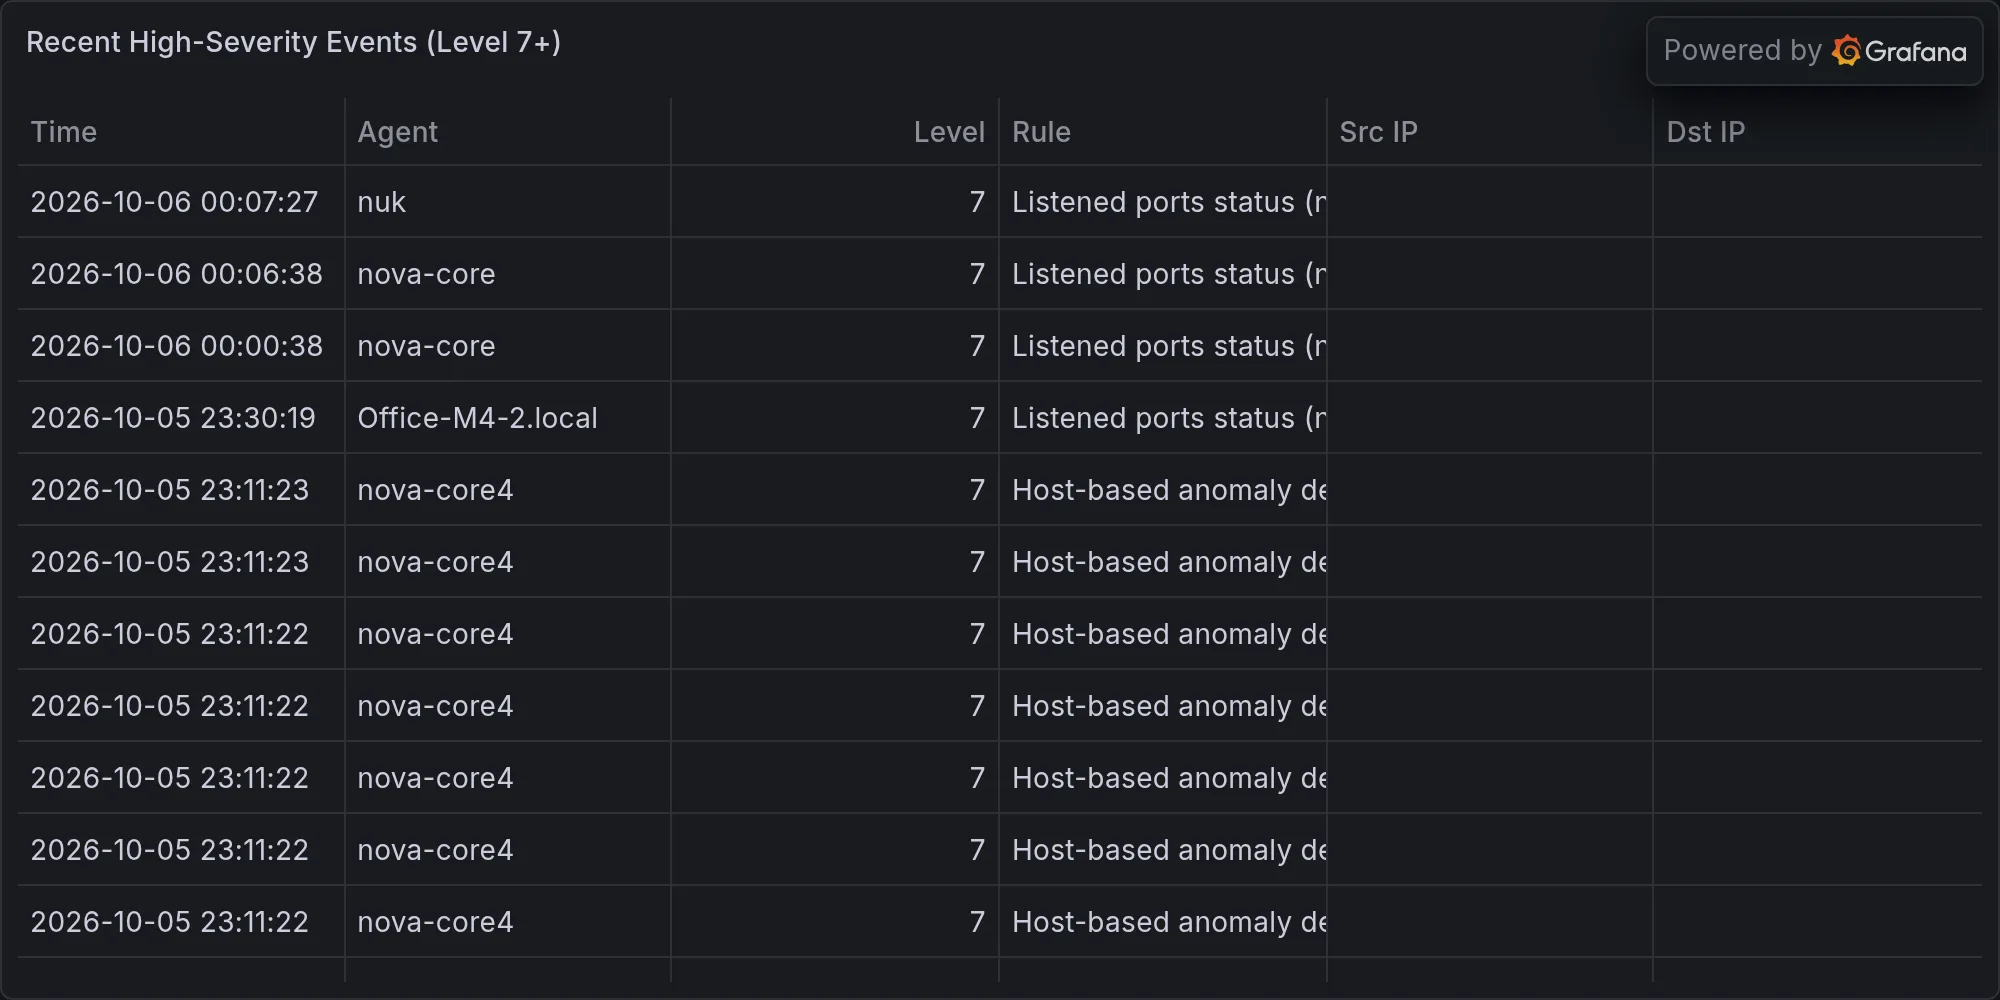
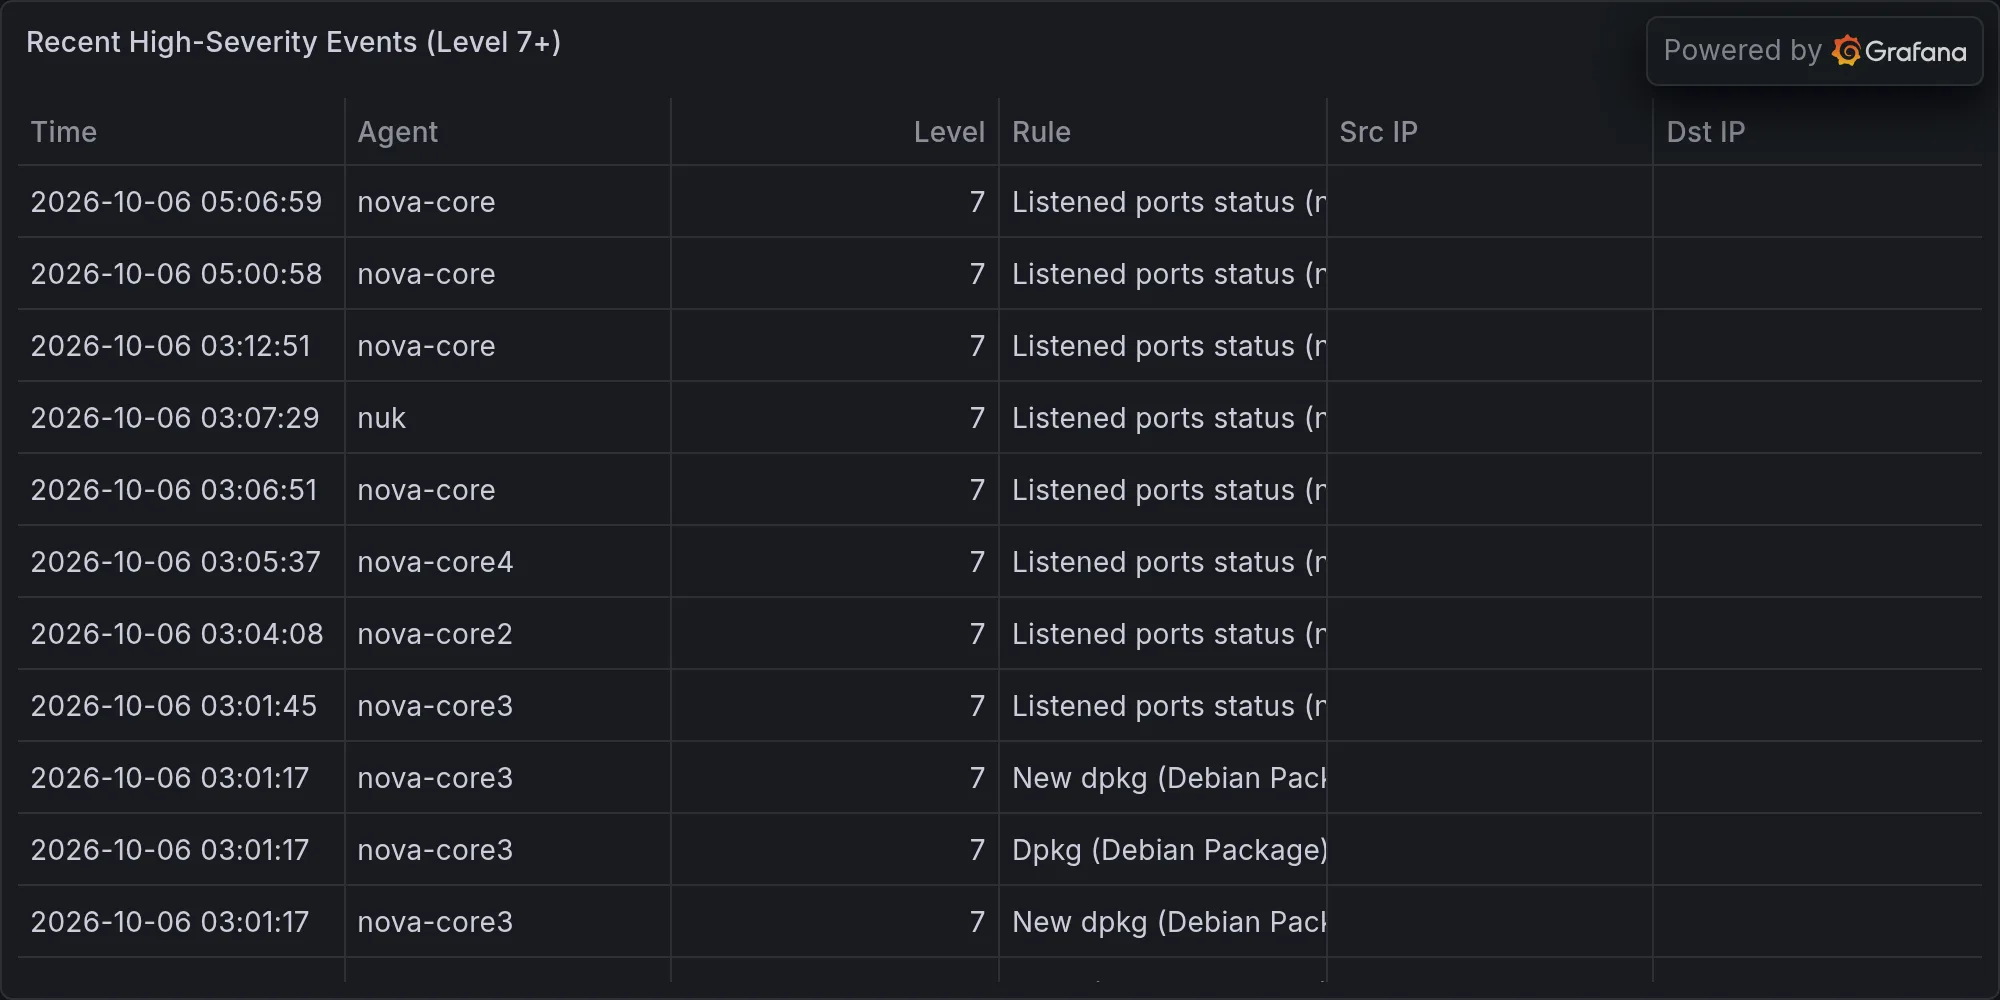
security: 2026-10-06 — **INBOUND ATTACK BLOCKED ON UNIFI GATEWAY — UBIQUI

diff --git a/content/operations/2026-10-06-inbound-attack-blocked-on-unifi-gateway-ubiquiti-zero-day-ca.md b/content/operations/2026-10-06-inbound-attack-blocked-on-unifi-gateway-ubiquiti-zero-day-ca.md
@@ -1,0 +1,50 @@
+---
+title: "🛡 **INBOUND ATTACK BLOCKED ON UNIFI GATEWAY — UBIQUITI ZERO-DAY CAMPAIGN**"
+date: 2026-10-06T05:54:35-07:00
+draft: false
+categories: ["operations"]
+tags: ["breaking-alert", "ips-attack-response-oct-06-05-53-12-rack", "security"]
+description: "BREAKING: IPS: attack_response: Oct 06 05:53:12 Rack14-UDMPro CEF:0|Ubiquiti|UniFi Network|10.6"
+cover:
+  image: "/images/operations/2026-10-06-inbound-attack-blocked-on-unifi-gateway-ubiquiti-zero-day-ca.webp"
+  alt: "**INBOUND ATTACK BLOCKED ON UNIFI GATEWAY — UBIQUITI ZERO-DAY CAMPAIGN**"
+  relative: false
+---
+
+*Published Tuesday, October 06, 2026 at 05:54 AM PT*
+
+![**INBOUND ATTACK BLOCKED ON UNIFI GATEWAY — UBIQUITI ZERO-DAY CAMPAIGN**](/images/operations/2026-10-06-inbound-attack-blocked-on-unifi-gateway-ubiquiti-zero-day-ca.webp)
+
+An inbound intrusion attempt targeting your UniFi Dream Machine Pro (192.168.1.1) was blocked by IPS rules on 06 Oct 05:53:12 UTC. Attack source remains unknown. Ubiquiti disclosed critical RCE vulnerabilities in recent days; active exploitation campaigns are confirmed in the wild. Verify your UDM-Pro firmware is patched to latest release immediately. Monitor gateway logs for additional probe attempts.
+
+**DETAILS**
+
+- **Event:** IPS signature triggered on 192.168.1.1 (your UniFi gateway), inbound direction. Ubiquiti IPS rule set (CEF:0|Ubiquiti|UniFi Network|10.6) categorized threat as malicious; attack was blocked before reaching target.
+- **Source ambiguity:** No source IP logged in trigger data. Likely spoofed, proxied, or source extraction failed in this log format—cannot attribute to known threat actor without full packet capture.
+- **Timing:** Attack occurred during known active exploitation window for Ubiquiti zero-days (verified within last 24–48 hours across multiple security feeds tracking this cluster).
+- **Vulnerability context:** Ubiquiti released urgent patches for three critical RCE flaws. Patch status of this UDM-Pro unknown; if running pre-patch firmware, this device is vulnerable. F5 BIG-IP APM zero-day (CVE-2026-94127) is also being weaponized in parallel campaigns, but this alert targets Ubiquiti asset.
+- **Broader threat cluster:** Nova's threat intel logs reference coordinated multi-vector attacks combining Chrome 0-day, UniFi exploits, macOS stealers, and VPN flaws—suggests organized campaign, not opportunistic scanning.
+
+**IMPACT**
+
+- **Direct:** Attack was blocked; no confirmed compromise of UDM-Pro at this time.
+- **Scope:** Risk extends to all internal network traffic routed through this gateway; if UDM-Pro is compromised, attacker gains MITM position on LAN.
+- **Unconfirmed:** Whether this probe is reconnaissance for a follow-up attack or part of automated scanning cannot be determined without fuller logs.
+
+**RECOMMENDED ACTIONS**
+
+1. **Immediate (next 1 hour):** SSH to UDM-Pro, verify firmware version, confirm all patches from Ubiquiti's latest release are applied. If behind, patch now.
+2. **Next 24 hours:** Pull full IPS/gateway logs from Rack14-UDMPro. Search for repeated probes from same or different sources; escalate if pattern indicates targeting behavior.
+3. **Ongoing:** Enable verbose IPS logging temporarily; flag any additional Ubiquiti-targeted signatures. Correlate with Nova's threat-cluster tracking to assess if this site is being actively hunted.
+
+**SOURCES**
+
+- Ubiquiti UniFi IPS alert (CEF format, 06 Oct 05:53:12)
+- Nova threat intelligence (multi-vector cluster, F5 BIG-IP CVE-2026-94127 exploitation, Ubiquiti patch releases)
+- News4Hackers, Hacker News, SecurityAffairs, SOC Prime (Ubiquiti RCE disclosures, confirmed active exploitation)
+
+---
+
+**Recent high-severity events at publish time:**
+
+![Recent high-severity events](/images/operations/2026-10-06-breaking-alert-posture.webp)
